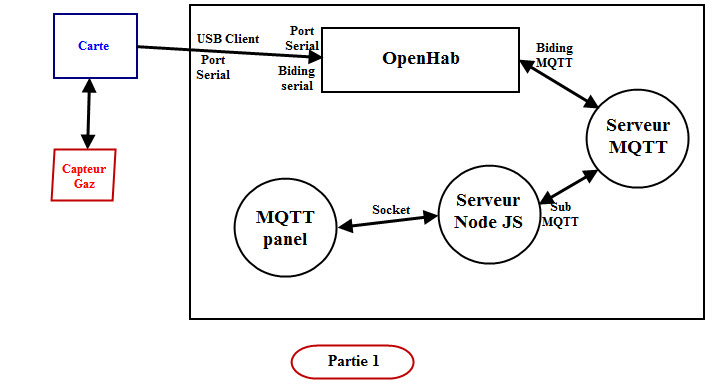
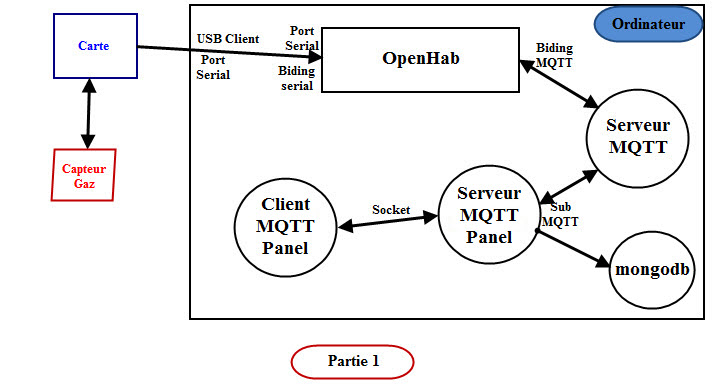
maj

diff --git a/README.md b/README.md
@@ -22,16 +22,16 @@ Comme indiqué plus haut, dans cette partie toute l'infrastructure tourne dans u
 
 Une fois l'sketch téléversée dans la carte, nous passons à la mise en place des serveurs permettant de recupérer les données. L'infrastructure imaginée est representée ci-dessous:
 
-![alt tag](https://github.com/DevYourWorld/Master2-M2M/blob/master/etc/infrastructure.png?raw=true)
+![alt tag](https://github.com/DIAZAU/M2M_FALL-LABED/blob/master/Partie1.jpg?raw=true)
 
 
 
 Expliquons brievement le rôle joué par chacune des briques visibles sur ce schéma:
 
-* **openHAB:** c'est à partir de là que nous recupérons les données provenant de la carte Galileo. Pour se faire, nous avons mis en place un item binding serial pour pouvoir recupérer les données. Une fois cela fait, nous allons transmettre les données par des messages MQTT l'aide d'un item binding mqtt et une régle.
+* **openHab:** c'est à partir de là que nous recupérons les données provenant de la carte Galileo. Pour se faire, nous avons mis en place un item binding serial pour pouvoir recupérer les données. Une fois cela fait, nous allons transmettre les données par des messages MQTT l'aide d'un item binding mqtt et une régle.
 Les items et la régle se trouvent dans le répertoire **/partie1/openhab** 
-* **Serveur mosquitto:** c'est un serveur standart mqtt permettant à l'entité **openHAB** de publier les données recuperées. 
-* **mqtt-panel:** Ici, nous avons modifiés de serveur de mqtt-panel pour que celui enregistre les données dans une base de données mongodb avant d'envoyer ces données au client mqtt-panel en utilisant les sockets comme protocole de communication. Le client mqtt-panel permet de visualiser via une interface web l'état actuel de l'infrastructure (le niveau de gaz). 
+* **Serveur MQTT:** c'est un serveur standart mqtt permettant à l'entité **openHAB** de publier les données recuperées. 
+* **Serveur MQTT-panel:** Ici, nous avons modifiés de serveur de mqtt-panel pour que celui enregistre les données dans une base de données mongodb avant d'envoyer ces données au client mqtt-panel en utilisant les sockets comme protocole de communication. Le client mqtt-panel permet de visualiser via une interface web l'état actuel de l'infrastructure (le niveau de gaz). 
 * **MongoDB:** Base de donnée enregistrant tous les évènements liés aux capteurs.
 
 ###Mise en place
@@ -56,7 +56,7 @@ Puis nous avons décompressé l'OS Clanton sur une carte SD, en prévision d'uti
 
 L'Intel Galileo bootera automatiquement sur la version de Clanton que vous aurez installé et puis nous recupérons l'adresse ip de la carte en utilisant wireshark puisque nous ne pouvons plus accéder à la carte avec le port usb host. 
 L'infrastructure imaginée est representée ci-dessous:
-![alt tag](https://github.com/DIAZAU/M2M_FALL-LABED/blob/master/Partie1.jpg?raw=true)
+![alt tag](https://github.com/DIAZAU/M2M_FALL-LABED/blob/master/Partie2.jpg?raw=true)
 
 Ici nous n'avons pas jugés necessaire d'utiliser openHab. En effet pour recuperer les données, nous avons utilisés un script shell (gpio) et puis publier les données par des messages mqtt. Nous reviendrons sur cet script plus loin.
 
@@ -73,5 +73,5 @@ Pour mieux comprendre le fonctionnement de ce script, nous vous invitons à cons
 **ATTENTION:** Pour que celui-ci fonctionne, vous devrez impérativement brancher votre détecteur de gaz sur l'entrée analogique 0 (A0) de votre Intel Galileo. 
 Afin de ne pas griller votre carte, nous vous invittons à respecter le schéma suivant:
 
-![alt tag](https://github.com/DIAZAU/M2M_FALL-LABED/blob/master/Partie2.jpg?raw=true)
+![alt tag](https://github.com/DevYourWorld/Master2-M2M/blob/master/etc/branchements.png?raw=true)
 
